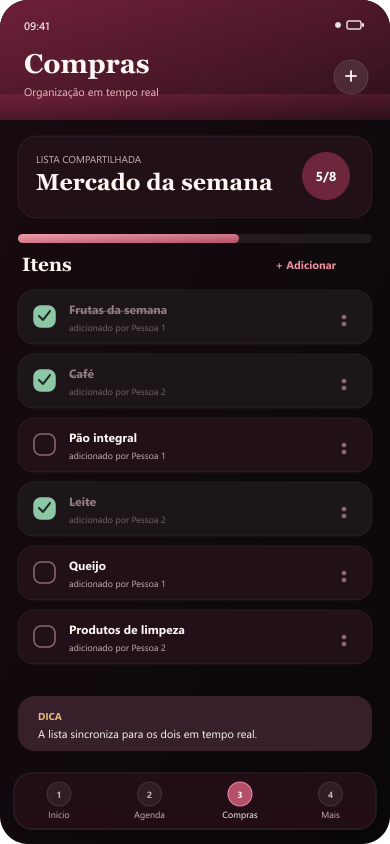
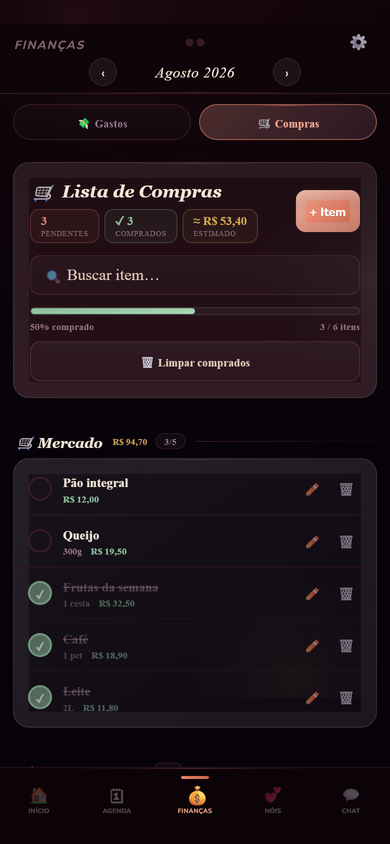
docs: replace feature mockups with real app captures (#10)

diff --git a/README.md b/README.md
@@ -4,7 +4,7 @@
 
 Projeto pessoal que idealizei por hobby para mim e minha namorada organizarmos rotina, finanças, metas, memórias, eventos e localização compartilhada. A aplicação resultante funciona na web, como **PWA** e no **Android/Capacitor**, com autenticação, sincronização em tempo real, notificações e recursos nativos.
 
-> Este repositório é uma versão pública e sanitizada para portfólio. As telas abaixo usam somente dados fictícios; as demonstrações de localização, metas, compras e galeria foram recriadas visualmente para não expor capturas do ambiente privado.
+> Este repositório é uma versão pública e sanitizada para portfólio. As telas abaixo foram capturadas a partir da interface real do aplicativo em uma execução local isolada, usando somente dados fictícios e sem conexão com o ambiente privado.
 
 ## Origem, autoria e uso de IA
 
